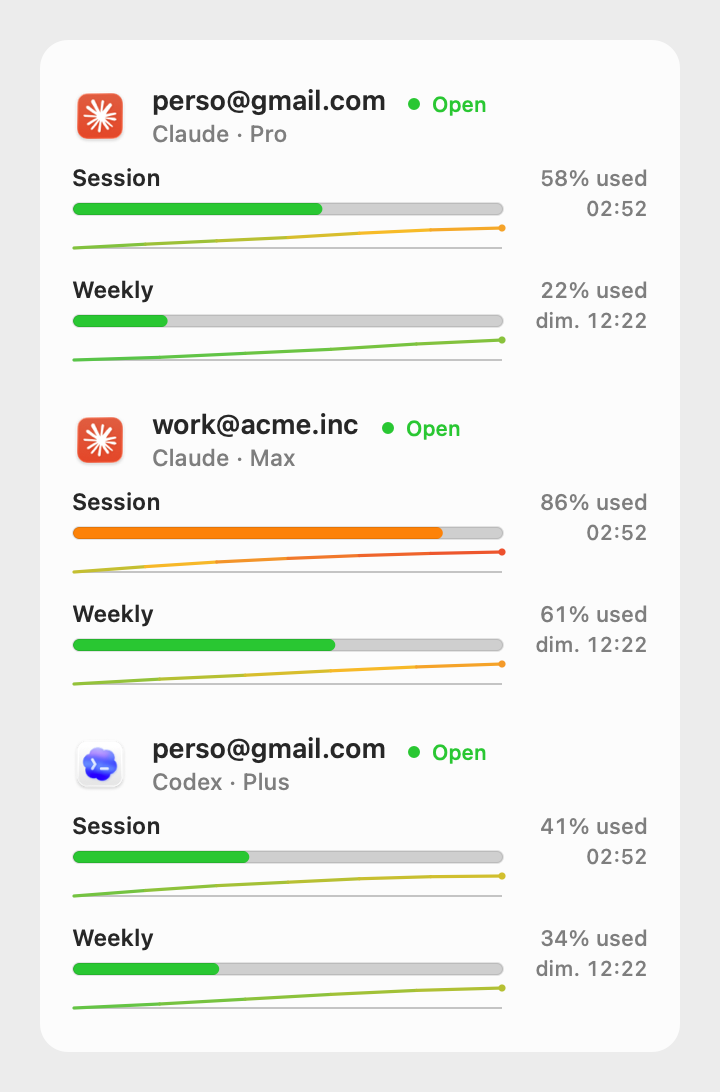
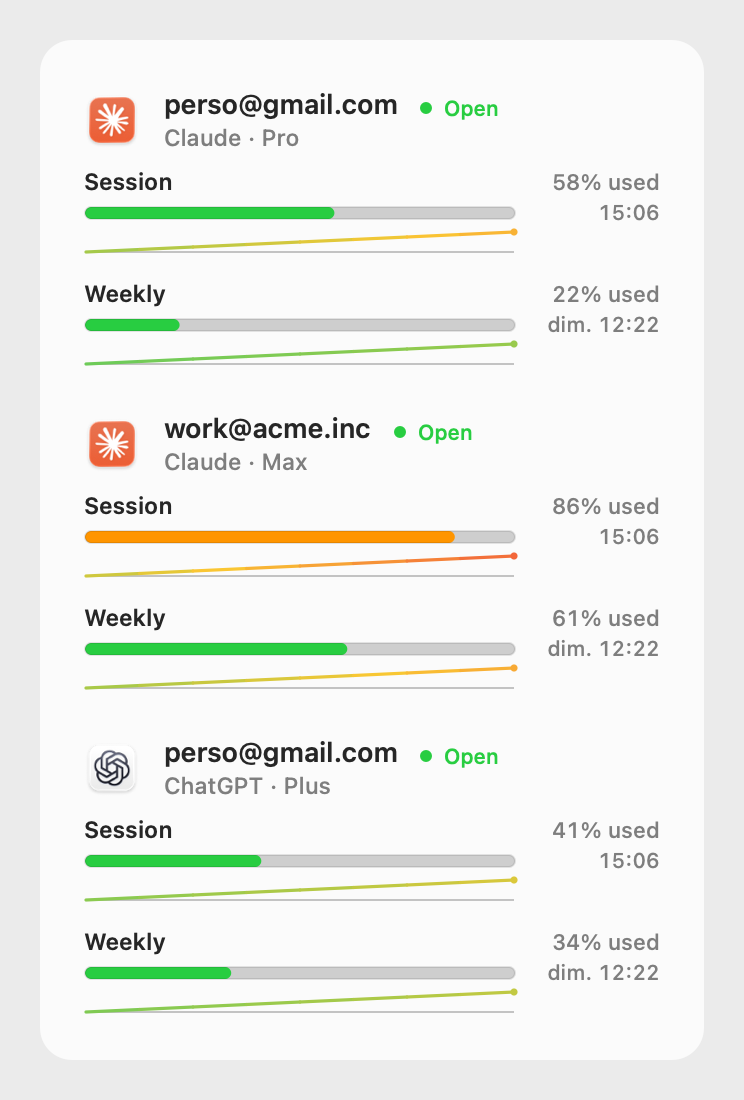
Rename the Codex app to ChatGPT throughout (display name, app path, README, screenshots), keeping the stored provider id stable

diff --git a/src/ConfigStore.swift b/src/ConfigStore.swift
@@ -22,7 +22,8 @@ final class ConfigStore {
         // re-infer the profile list and apply one-time migrations.
         var config = existing
         config.autoApproveCookieAccess = existing.autoApproveCookieAccess ?? true
-        config.profiles = inferProfiles(existing: existing.profiles)
+        migrateCodexRename(&config.profiles)
+        config.profiles = inferProfiles(existing: config.profiles)
         if config.configVersion == nil {
             // One-time migration for configs written before these options existed:
             // opt the user into launch-at-login (explicitly requested) and cookie access.
@@ -63,7 +64,7 @@ final class ConfigStore {
         let support = "\(home)/Library/Application Support"
 
         let claudeApp = "/Applications/Claude.app"
-        let codexApp = "/Applications/Codex.app"
+        let codexApp = defaultAppPath(for: .codex)
 
         var candidates: [(provider: Provider, appPath: String, dataDir: String, userAdded: Bool)] = []
 
@@ -193,10 +194,31 @@ final class ConfigStore {
         return candidates
     }
 
+    /// Codex's desktop app was renamed to ChatGPT. Repoint stored profiles at the new
+    /// bundle (so the right icon shows) and refresh auto-generated "Codex - " labels.
+    /// Idempotent: once migrated, neither branch matches again.
+    private func migrateCodexRename(_ profiles: inout [LaunchProfile]) {
+        for i in profiles.indices where profiles[i].provider == .codex {
+            if profiles[i].appPath == "/Applications/Codex.app" {
+                profiles[i].appPath = defaultAppPath(for: .codex)
+            }
+            if profiles[i].label.hasPrefix("Codex - ") {
+                profiles[i].label = "ChatGPT - " + profiles[i].label.dropFirst("Codex - ".count)
+            }
+        }
+    }
+
     private func defaultAppPath(for provider: Provider) -> String {
         switch provider {
         case .claude: return "/Applications/Claude.app"
-        case .codex: return "/Applications/Codex.app"
+        case .codex:
+            // Codex's desktop app is now the ChatGPT app; fall back to the old bundle
+            // only if someone still has it installed.
+            let chatGPT = "/Applications/ChatGPT.app"
+            let legacyCodex = "/Applications/Codex.app"
+            if FileManager.default.fileExists(atPath: chatGPT) { return chatGPT }
+            if FileManager.default.fileExists(atPath: legacyCodex) { return legacyCodex }
+            return chatGPT
         }
     }
 

diff --git a/src/SettingsWindow.swift b/src/SettingsWindow.swift
@@ -104,7 +104,7 @@ final class SettingsWindowController: NSWindowController, NSTableViewDataSource,
         listTitle.font = .boldSystemFont(ofSize: NSFont.systemFontSize)
         let addAccountButton = NSButton(title: "+", target: self, action: #selector(addAccount))
         addAccountButton.bezelStyle = .rounded
-        addAccountButton.toolTip = "Add a Claude or Codex account"
+        addAccountButton.toolTip = "Add a Claude or ChatGPT account"
         addAccountButton.widthAnchor.constraint(equalToConstant: 32).isActive = true
         let listHeader = NSStackView(views: [listTitle, addAccountButton])
         listHeader.orientation = .horizontal
@@ -183,7 +183,7 @@ final class SettingsWindowController: NSWindowController, NSTableViewDataSource,
 
         autoStartSession.target = self
         autoStartSession.action = #selector(autoStartChanged)
-        autoStartSession.toolTip = "When the 5h window is idle or has reset, LLMCodeBar sends one tiny \"hi\" on the cheapest model to start it. For Claude it uses a throwaway chat that's deleted after. Only fires when the session isn't already running. Codex is experimental."
+        autoStartSession.toolTip = "When the 5h window is idle or has reset, LLMCodeBar sends one tiny \"hi\" on the cheapest model to start it. For Claude it uses a throwaway chat that's deleted after. Only fires when the session isn't already running. ChatGPT is experimental."
         startSessionNow.target = self
         startSessionNow.action = #selector(startSessionNowTapped)
         startSessionNow.bezelStyle = .rounded
@@ -191,12 +191,12 @@ final class SettingsWindowController: NSWindowController, NSTableViewDataSource,
         autoStartRow.orientation = .horizontal
         autoStartRow.spacing = 10
 
-        let autoStartHelp = helpLabel("Starts the 5h window when it's idle by sending a tiny \"hi\" on the cheapest model. Only acts when the session isn't already running. Codex is experimental.")
+        let autoStartHelp = helpLabel("Starts the 5h window when it's idle by sending a tiny \"hi\" on the cheapest model. Only acts when the session isn't already running. ChatGPT is experimental.")
 
         // Advanced (label / paths), collapsed.
         advancedStack.orientation = .vertical
         advancedStack.spacing = 8
-        providerPopup.addItems(withTitles: Provider.allCases.map(\.rawValue))
+        providerPopup.addItems(withTitles: Provider.allCases.map(\.displayName))
         for field in [labelField, appPathField, dataDirField] { field.delegate = self }
         providerPopup.target = self
         providerPopup.action = #selector(providerChanged)
@@ -232,7 +232,7 @@ final class SettingsWindowController: NSWindowController, NSTableViewDataSource,
         title.toolTip = "Applies to LLMCodeBar, not to any single account."
 
         launchAtLogin.state = (config.launchAtLogin || AutostartManager.isEnabled) ? .on : .off
-        launchAtLogin.toolTip = "Start LLMCodeBar itself when you log in to your Mac. (Not the Claude or Codex apps.)"
+        launchAtLogin.toolTip = "Start LLMCodeBar itself when you log in to your Mac. (Not the Claude or ChatGPT apps.)"
         launchAtLogin.target = self
         launchAtLogin.action = #selector(launchAtLoginChanged)
 
@@ -253,7 +253,7 @@ final class SettingsWindowController: NSWindowController, NSTableViewDataSource,
         showSparklines.action = #selector(sparklinesChanged)
 
         autoApproveCookies.state = config.allowsCookieKeychain ? .on : .off
-        autoApproveCookies.toolTip = "Reads the encrypted cookie store for live usage. macOS asks to approve keychain access once (click \"Always Allow\"). Uncheck to never prompt; usage then updates only while Claude/Codex is open."
+        autoApproveCookies.toolTip = "Reads the encrypted cookie store for live usage. macOS asks to approve keychain access once (click \"Always Allow\"). Uncheck to never prompt; usage then updates only while Claude/ChatGPT is open."
         autoApproveCookies.target = self
         autoApproveCookies.action = #selector(cookiesChanged)
         let cookiesHelp = helpLabel("Approve the keychain once (\"Always Allow\") instead of every launch. Uncheck to never prompt.")
@@ -310,7 +310,7 @@ final class SettingsWindowController: NSWindowController, NSTableViewDataSource,
         accountControls.forEach { $0.isEnabled = true }
 
         labelField.stringValue = profile.label
-        providerPopup.selectItem(withTitle: profile.provider.rawValue)
+        providerPopup.selectItem(withTitle: profile.provider.displayName)
         appPathField.stringValue = profile.appPath
         dataDirField.stringValue = profile.dataDir
 
@@ -331,7 +331,7 @@ final class SettingsWindowController: NSWindowController, NSTableViewDataSource,
             accountSubtitle.stringValue = "Sign in when the window opens"
         } else {
             accountTitle.stringValue = profile.accountEmail ?? profile.accountName ?? "\(profile.provider.rawValue) account"
-            accountSubtitle.stringValue = [profile.provider.rawValue, profile.usage?.accountPlan ?? profile.accountPlan]
+            accountSubtitle.stringValue = [profile.provider.displayName, profile.usage?.accountPlan ?? profile.accountPlan]
                 .compactMap { $0 }.joined(separator: "  ·  ")
         }
         statusLabel.stringValue = ""
@@ -377,7 +377,7 @@ final class SettingsWindowController: NSWindowController, NSTableViewDataSource,
 
     @objc private func providerChanged() {
         guard let id = selectedID else { return }
-        let provider = Provider(rawValue: providerPopup.titleOfSelectedItem ?? "Claude") ?? .claude
+        let provider = Provider.named(providerPopup.titleOfSelectedItem ?? "Claude") ?? .claude
         commit { cfg in
             if let i = cfg.profiles.firstIndex(where: { $0.id == id }) { cfg.profiles[i].provider = provider }
         }
@@ -421,7 +421,7 @@ final class SettingsWindowController: NSWindowController, NSTableViewDataSource,
 
         let alert = NSAlert()
         alert.messageText = "Remove \(profile.accountEmail ?? profile.label) from LLMCodeBar?"
-        alert.informativeText = "This just takes the account off this list. Your Claude/Codex login and its data are not touched, and you can add it back with Rescan."
+        alert.informativeText = "This just takes the account off this list. Your Claude/ChatGPT login and its data are not touched, and you can add it back with Rescan."
         alert.alertStyle = .warning
         alert.addButton(withTitle: "Remove")
         alert.addButton(withTitle: "Cancel")
@@ -443,10 +443,10 @@ final class SettingsWindowController: NSWindowController, NSTableViewDataSource,
         alert.addButton(withTitle: "Open Login Window")
         alert.addButton(withTitle: "Cancel")
         let picker = NSPopUpButton(frame: NSRect(x: 0, y: 0, width: 240, height: 28))
-        picker.addItems(withTitles: Provider.allCases.map(\.rawValue))
+        picker.addItems(withTitles: Provider.allCases.map(\.displayName))
         alert.accessoryView = picker
         guard alert.runModal() == .alertFirstButtonReturn,
-              let provider = Provider(rawValue: picker.titleOfSelectedItem ?? "") else { return }
+              let provider = Provider.named(picker.titleOfSelectedItem ?? "") else { return }
 
         let profile = ConfigStore.shared.createPendingProfile(provider: provider)
         commit { $0.profiles.append(profile) }

diff --git a/src/Models.swift b/src/Models.swift
@@ -3,6 +3,21 @@ import Foundation
 enum Provider: String, Codable, CaseIterable {
     case claude = "Claude"
     case codex = "Codex"
+
+    /// User-facing name. OpenAI's Codex desktop app is now the ChatGPT app, so we show
+    /// "ChatGPT" while keeping the stored rawValue "Codex" for config, keychain, and
+    /// dedup-key stability across the rename.
+    var displayName: String {
+        switch self {
+        case .claude: return "Claude"
+        case .codex: return "ChatGPT"
+        }
+    }
+
+    /// Resolve a provider from either its display name ("ChatGPT") or stored rawValue.
+    static func named(_ name: String) -> Provider? {
+        allCases.first { $0.displayName == name || $0.rawValue == name }
+    }
 }
 
 struct UsageWindow: Codable {
@@ -119,7 +134,7 @@ struct LaunchProfile: Codable, Identifiable {
         let account = identity.displayName ?? identity.email ?? "Signed-in account"
         return LaunchProfile(
             id: UUID().uuidString,
-            label: "\(provider.rawValue) - \(account)",
+            label: "\(provider.displayName) - \(account)",
             provider: provider,
             appPath: appPath,
             dataDir: dataDir,
@@ -143,7 +158,7 @@ struct LaunchProfile: Codable, Identifiable {
     static func pending(provider: Provider, appPath: String, dataDir: String) -> LaunchProfile {
         LaunchProfile(
             id: UUID().uuidString,
-            label: "\(provider.rawValue) - Connect account",
+            label: "\(provider.displayName) - Connect account",
             provider: provider,
             appPath: appPath,
             dataDir: dataDir,
@@ -176,7 +191,7 @@ struct LaunchProfile: Codable, Identifiable {
             accountName = newName
         }
         let account = accountName ?? accountEmail ?? "Signed-in account"
-        label = "\(provider.rawValue) - \(account)"
+        label = "\(provider.displayName) - \(account)"
         if let planName = identity.planName {
             // Never let a noisy "Free" reading downgrade a plan we already know is paid;
             // the local billing cache flips, so paid is sticky until removed/re-added.

diff --git a/src/UsageRefresher.swift b/src/UsageRefresher.swift
@@ -111,7 +111,7 @@ enum UsageRefresher {
                     plan: account?.plan ?? profile.accountPlan,
                     endpoint: endpoint,
                     httpStatus: response.statusCode,
-                    status: "Codex usage HTTP \(response.statusCode)",
+                    status: "ChatGPT usage HTTP \(response.statusCode)",
                     parserMatchesProvider: false,
                     windows: [],
                     creditsRemaining: nil)
@@ -132,7 +132,7 @@ enum UsageRefresher {
                 plan: plan,
                 endpoint: endpoint,
                 httpStatus: response.statusCode,
-                status: windows.isEmpty && balance == nil ? "Codex usage unavailable" : nil,
+                status: windows.isEmpty && balance == nil ? "ChatGPT usage unavailable" : nil,
                 parserMatchesProvider: !windows.isEmpty && windows.allSatisfy(\.matches),
                 windows: windows,
                 creditsRemaining: balance)
@@ -339,7 +339,7 @@ enum UsageRefresher {
         }
         guard (200...299).contains(response.statusCode),
               let json = try JSONSerialization.jsonObject(with: response.data) as? [String: Any] else {
-            throw NSError(domain: "LLMUsageBar.Codex", code: response.statusCode, userInfo: [NSLocalizedDescriptionKey: "Codex usage HTTP \(response.statusCode)"])
+            throw NSError(domain: "LLMUsageBar.Codex", code: response.statusCode, userInfo: [NSLocalizedDescriptionKey: "ChatGPT usage HTTP \(response.statusCode)"])
         }
 
         let account = CodexAuthStore.accountInfo(dataDir: profile.dataDir)
@@ -354,7 +354,7 @@ enum UsageRefresher {
 
         return UsageInfo(
             source: "codex-oauth",
-            status: windows.isEmpty && balance == nil ? "Codex usage unavailable" : nil,
+            status: windows.isEmpty && balance == nil ? "ChatGPT usage unavailable" : nil,
             windows: windows,
             creditsRemaining: balance,
             accountEmail: account?.email,

diff --git a/src/SessionKickstarter.swift b/src/SessionKickstarter.swift
@@ -166,16 +166,16 @@ enum SessionKickstarter {
                     response = try sendCodexMessage(model: model, credentials: credentials)
                 }
                 if (200...299).contains(response.statusCode) {
-                    return "Started a Codex 5h session - sent “hi” on \(model)."
+                    return "Started a ChatGPT 5h session - sent “hi” on \(model)."
                 }
                 lastStatus = response.statusCode
                 lastError = conciseError(response.data)
                 // Keep trying other models only on a model-availability error.
                 if !lastError.lowercased().contains("model") { break }
             }
-            return "Couldn't start Codex session (HTTP \(lastStatus)). \(lastError)"
+            return "Couldn't start ChatGPT session (HTTP \(lastStatus)). \(lastError)"
         } catch {
-            return "Failed to start Codex session: \(error.localizedDescription)"
+            return "Failed to start ChatGPT session: \(error.localizedDescription)"
         }
     }
 

diff --git a/src/AccountResolver.swift b/src/AccountResolver.swift
@@ -306,6 +306,9 @@ enum AccountResolver {
             "Claude",
             "Codex",
             "Votre Codex",
+            "ChatGPT",
+            "Votre ChatGPT",
+            "OpenAI",
             "Personne 1",
             "Personne 1",
             "Web Store",

diff --git a/src/AppDelegate.swift b/src/AppDelegate.swift
@@ -27,7 +27,7 @@ final class AppDelegate: NSObject, NSApplicationDelegate {
         menu.autoenablesItems = false
 
         if config.profiles.isEmpty {
-            let empty = NSMenuItem(title: refreshInFlight ? "Finding Claude and Codex accounts..." : "No Claude/Codex accounts found", action: nil, keyEquivalent: "")
+            let empty = NSMenuItem(title: refreshInFlight ? "Finding Claude and ChatGPT accounts..." : "No Claude/ChatGPT accounts found", action: nil, keyEquivalent: "")
             empty.isEnabled = false
             menu.addItem(empty)
         } else {

diff --git a/src/Formatting.swift b/src/Formatting.swift
@@ -15,7 +15,7 @@ enum ProfileFormatting {
     }
 
     static func subtitle(for profile: LaunchProfile) -> String {
-        var parts = [profile.provider.rawValue]
+        var parts = [profile.provider.displayName]
         if let plan = profile.usage?.accountPlan ?? profile.accountPlan {
             parts.append(plan)
         } else if profile.signedIn == true {

diff --git a/src/MenuViews.swift b/src/MenuViews.swift
@@ -82,7 +82,7 @@ enum MenuBarIcon {
 }
 
 /// Renders the menu-bar status image as up to two stacked rows, each showing an
-/// account's app icon (Claude/Codex) followed by its 5h % so you can tell them apart.
+/// account's app icon (Claude/ChatGPT) followed by its 5h % so you can tell them apart.
 enum MenuBarBadge {
     struct Row {
         let icon: NSImage

diff --git a/README.md b/README.md
@@ -1,16 +1,16 @@
 # LLMCodeBar
 
-> Your Claude and Codex limits in the menu bar. Built for running several accounts of the same provider, and auto starting your 5 hour session.
+> Your Claude and ChatGPT limits in the menu bar. Built for running several accounts of the same provider, and auto starting your 5 hour session.
 
-![LLMCodeBar menu with two Claude accounts and a Codex one](assets/screenshot.png)
+![LLMCodeBar menu with two Claude accounts and a ChatGPT one](assets/screenshot.png)
 
 ## Why this one
 
-Plenty of menu bar apps show your Claude or Codex usage. This one is built for two things they don't do.
+Plenty of menu bar apps show your Claude or ChatGPT usage. This one is built for two things they don't do.
 
-**Run multiple accounts of the same provider.** Personal Claude and work Claude, right next to each other. Two Codex logins. As many as you want, each in its own isolated window so they never clash. Click an account in the dropdown to open Claude or Codex already signed into it.
+**Run multiple accounts of the same provider.** Personal Claude and work Claude, right next to each other. Two ChatGPT logins. As many as you want, each in its own isolated window so they never clash. Click an account in the dropdown to open Claude or ChatGPT already signed into it.
 
-**Auto start your 5 hour session.** The 5 hour window only starts counting from your first message, so an account you're not actively using never starts its clock. Turn this on and LLMCodeBar sends one tiny message on the cheapest model whenever the window is idle, so the session runs on a schedule instead of whenever you remember. Claude and Codex, per account.
+**Auto start your 5 hour session.** The 5 hour window only starts counting from your first message, so an account you're not actively using never starts its clock. Turn this on and LLMCodeBar sends one tiny message on the cheapest model whenever the window is idle, so the session runs on a schedule instead of whenever you remember. Claude and ChatGPT, per account.
 
 ## Everything else
 
@@ -32,7 +32,7 @@ It's unsigned (no paid Apple Developer ID), so macOS blocks the first launch. Ri
 xattr -dr com.apple.quarantine "/Applications/LLMCodeBar.app"
 ```
 
-macOS 13 or newer, universal (Apple Silicon and Intel). You also need the Claude and/or Codex desktop apps installed and signed in.
+macOS 13 or newer, universal (Apple Silicon and Intel). You also need the Claude and/or ChatGPT desktop apps installed and signed in.
 
 ## Settings
 
@@ -42,8 +42,8 @@ macOS 13 or newer, universal (Apple Silicon and Intel). You also need the Claude
 
 Local and read only, on your own accounts. Nothing leaves your machine except the usual requests to Anthropic and OpenAI.
 
-- Reads your signed in Claude and Codex profiles in `~/Library/Application Support` for the account and plan.
-- Claude: your session cookies plus the claude.ai usage endpoint. Codex: the Codex CLI token in `auth.json` plus the ChatGPT usage endpoint.
+- Reads your signed in Claude and ChatGPT profiles in `~/Library/Application Support` for the account and plan.
+- Claude: your session cookies plus the claude.ai usage endpoint. ChatGPT: the OpenAI login token in `auth.json` plus the ChatGPT usage endpoint.
 - Saves a small config and a 7 day usage history for the sparklines.
 
 When Claude isn't running, it decrypts Claude's cookie key and macOS asks for your password once. Click **Always Allow** and it caches the key so it stops asking, or turn off **Auto approve cookie access** in Settings to keep it away from the keychain entirely.